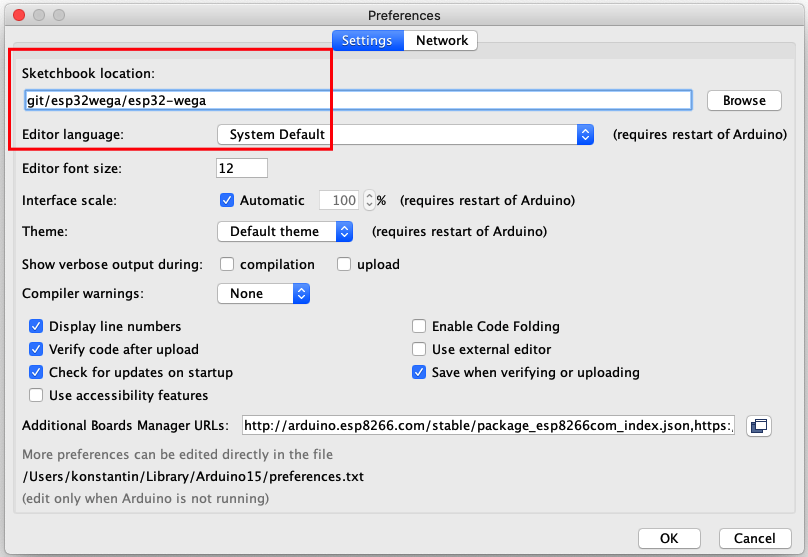
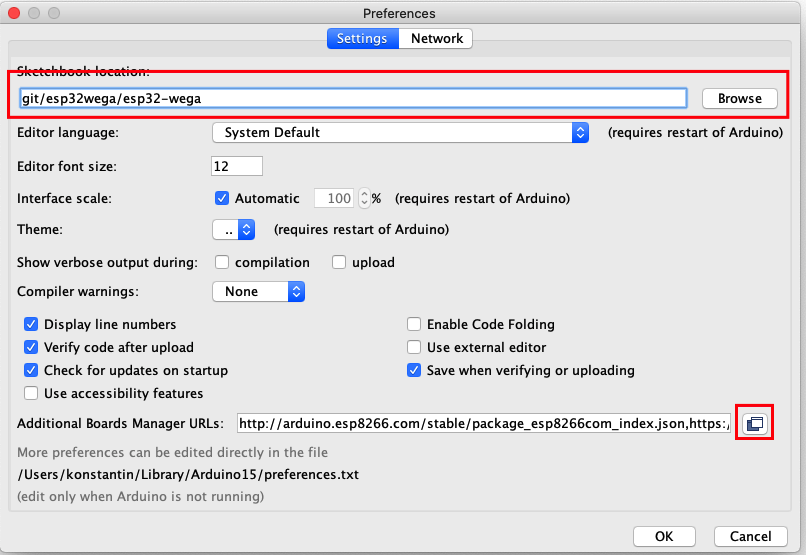
Updated readme

diff --git a/README.md b/README.md
@@ -67,7 +67,13 @@ File -> Preferences
 
 <a href="images/prefs.png"><img src="images/prefs.png" width="250"></a>
 
-Вставляем ссылку на конфиг и нажимаем OK.
+И здесь нам надо изменить две вещи.
+
+1. Необходимо указать расположение вашей папки с esp32 проектом/скетчами, где находятся файлы ардуины.
+
+<a href="images/sketch_location.png"><img src="images/sketch_location.png" width="250"></a>
+
+2. Добавить ссылку на конфиг файл для установки esp32 платы. Для этого необходимо скопировать ссылку, которая приведена ниже и вставить ее в поле, которое откроется при нажатии кнопки, которая выделена красным квадратом
 
 `https://raw.githubusercontent.com/espressif/arduino-esp32/gh-pages/package_esp32_dev_index.json`
 
